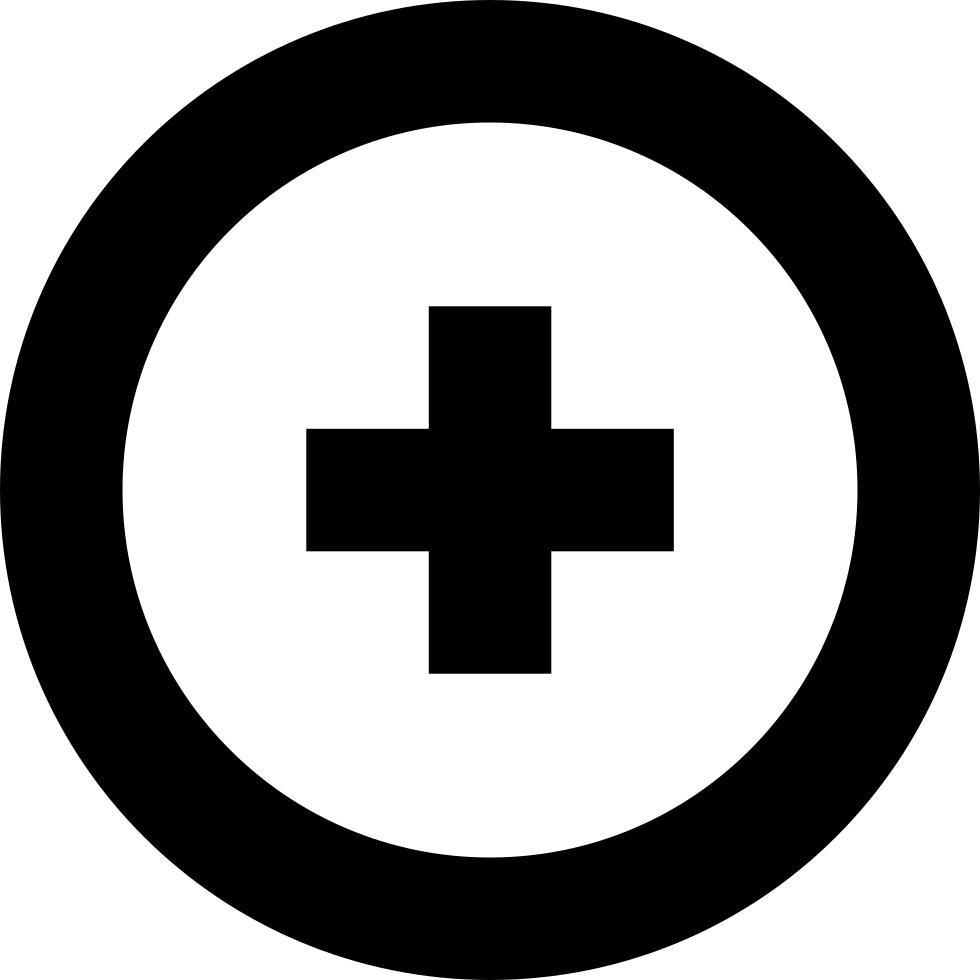
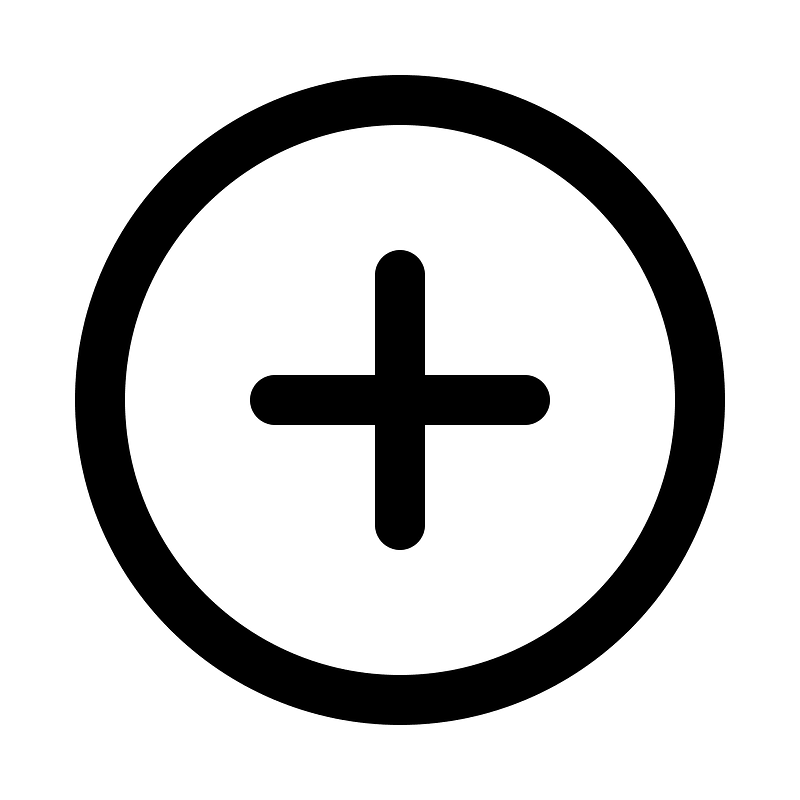
fixed plus

diff --git a/public/style.css b/public/style.css
@@ -105,6 +105,7 @@ body {
     width: 16vw;
     height: 25vh;
     margin: 1vh 1vw;
+    min-height: 175px;
     text-align: center;
     justify-content: center;
     background-size: cover;
@@ -128,6 +129,14 @@ body {
 .artist .material-symbols-outlined {
     display: inline-block;
     color: #ccc;
+}
+
+#more {
+    background-image: url('/images/plus.png');
+    background-size: 50%;
+    background-position: center 25%;
+    background-repeat: no-repeat;
+    cursor: pointer;
 }
 
 /*** 2.0 - Login Page ***/
